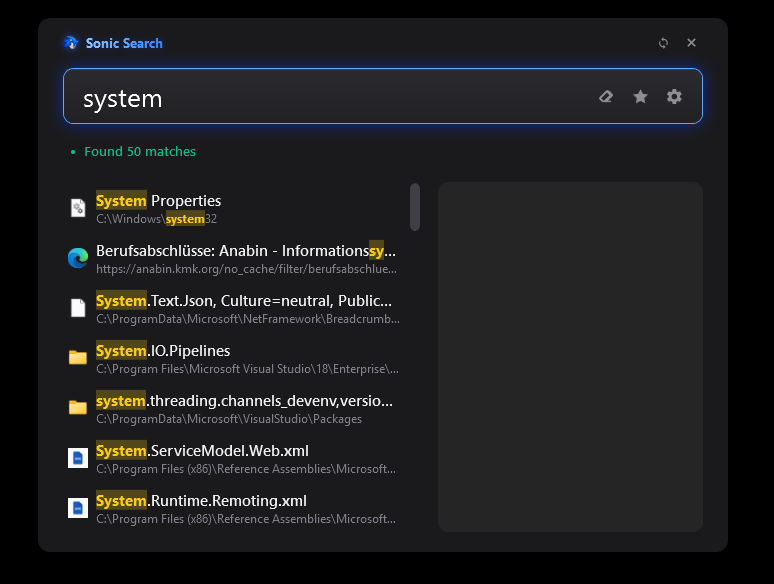
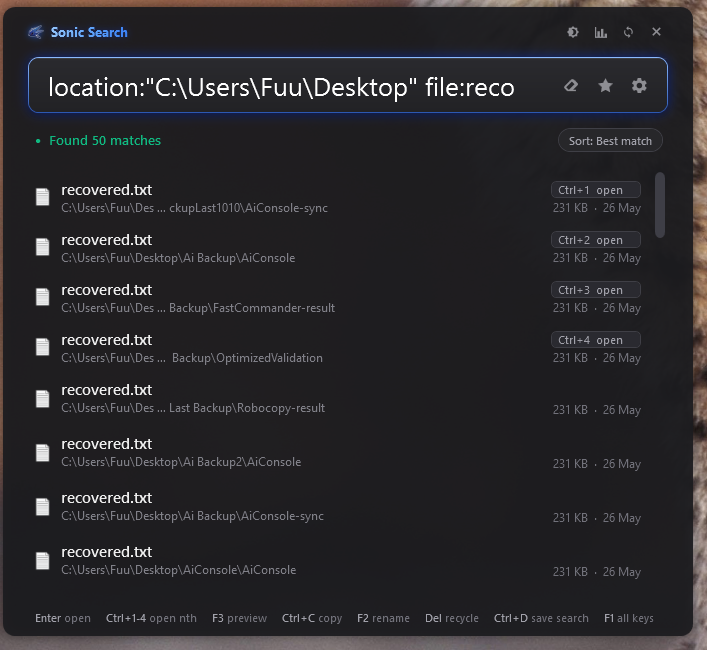
Screenshots of the current version (main window, settings, shortcuts, health)

diff --git a/README.md b/README.md
@@ -54,7 +54,11 @@ A very fast file search tool for NTFS drives on Windows. It reads the NTFS **Mas
 - **Also finds** Windows tools (Device Manager, Services, ...) and Chrome / Edge bookmarks.
 - **Global hotkey** (default Ctrl+S) to summon the window from anywhere; it lives in the system tray and can start with Windows.
 
-![Settings](screenshots/settings.png)
+![Settings: full-text search and OCR](screenshots/settings.png)
+
+| Keyboard shortcuts (F1) | Health page |
+|---|---|
+| ![Keyboard shortcuts](screenshots/shortcuts.png) | ![Health page](screenshots/health.png) |
 
 ## How fast is it?
 
